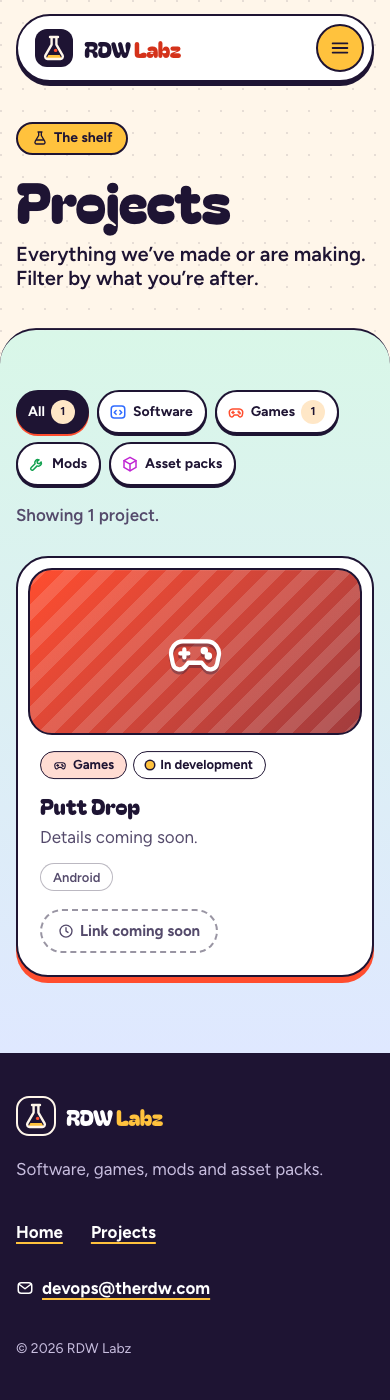
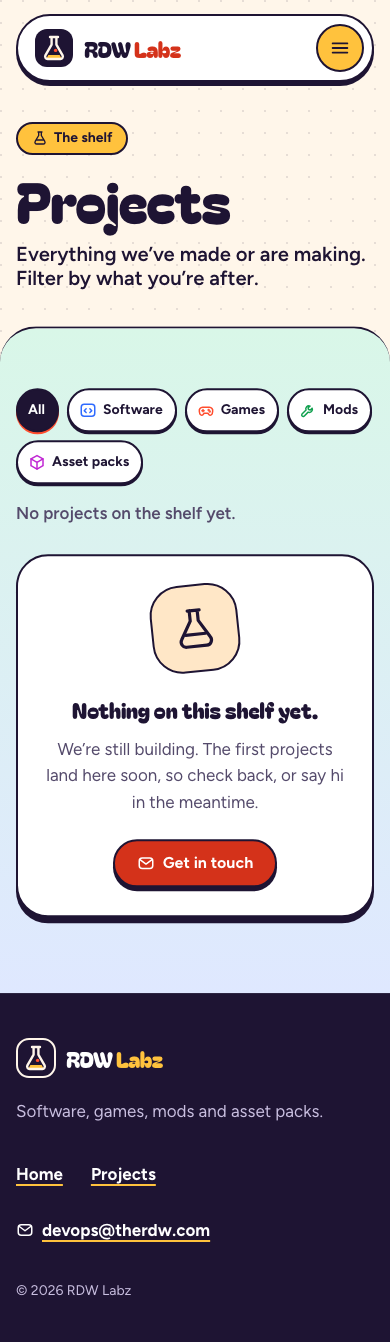
Remove hand-written Putt Drop (now synced from its repo); add empty-shelf state

diff --git a/tests/site.spec.ts b/tests/site.spec.ts
@@ -73,7 +73,9 @@ test('journey: tile → filtered projects (client-side nav)', async ({ page }) =
   await expect(page.locator('[data-project-grid] > li:not([hidden])')).toHaveCount(
     await page.locator('[data-project-grid] > li[data-category="mods"]').count(),
   );
-  await expect(page.locator('[data-filter-status]')).toContainText('in Mods');
+  await expect(page.locator('[data-filter-status]')).toContainText(
+    /in Mods|No projects on the shelf yet/,
+  );
   await expect(page.locator('a[aria-current="page"]').first()).toHaveText(/Projects/);
 });
 
@@ -100,6 +102,10 @@ test('projects: filters by click and keyboard, reflect URL, and reset', async ({
 
 test('projects: empty state when a category has no projects', async ({ page }) => {
   await page.goto('/projects');
+  test.skip(
+    (await page.locator('[data-project-grid] > li').count()) === 0,
+    'shelf is empty; covered by the empty-shelf test',
+  );
   // Simulate a category with zero projects by removing its cards, then filtering.
   await page.evaluate(() =>
     document
@@ -127,7 +133,20 @@ test('placeholder entries are never shown or counted', async ({ page }) => {
     await expect(count).not.toHaveText('0');
   }
   const cards = await page.locator('[data-project-grid] > li').count();
-  await expect(page.locator('[data-filter="all"] .chip-filter__count')).toHaveText(String(cards));
+  const allCount = page.locator('[data-filter="all"] .chip-filter__count');
+  if (cards === 0) await expect(allCount).toHaveCount(0);
+  else await expect(allCount).toHaveText(String(cards));
+});
+
+test('projects: an empty shelf says so and never links back to itself', async ({ page }) => {
+  await page.goto('/projects');
+  test.skip((await page.locator('[data-project-grid] > li').count()) > 0, 'shelf has projects');
+  await expect(page.locator('[data-filter-status]')).toHaveText('No projects on the shelf yet.');
+  await expect(page.locator('[data-empty]')).toBeVisible();
+  await expect(page.locator('[data-filter-reset]')).toHaveCount(0);
+  await expect(page.locator('[data-empty] a[href^="mailto:"]')).toHaveCount(1);
+  await page.locator('[data-filter="games"]').click();
+  await expect(page.locator('[data-filter-status]')).toHaveText('No projects on the shelf yet.');
 });
 
 test('projects: unknown ?c= falls back to All', async ({ page }) => {
@@ -273,7 +292,8 @@ test.describe('no JavaScript', () => {
   test.use({ javaScriptEnabled: false });
   test('content is readable and filters degrade to links', async ({ page }) => {
     await page.goto('/projects?c=mods');
-    await expect(page.locator('.project-card').first()).toBeVisible();
+    const hasCards = (await page.locator('.project-card').count()) > 0;
+    await expect(page.locator(hasCards ? '.project-card' : '[data-empty]').first()).toBeVisible();
     await expect(page.locator('[data-filter="mods"]')).toHaveAttribute('href', '/projects?c=mods');
     await page.goto('/');
     await expect(page.locator('#what-we-build .tile').first()).toBeVisible();
@@ -343,7 +363,11 @@ test.describe('round 2 motion', () => {
   test('lab activity lists build-time updates linking to the shelf', async ({ page }) => {
     await page.goto('/');
     const items = page.locator('.activity li');
-    expect(await items.count()).toBeGreaterThan(0);
+    // Built from real projects only: no projects, no strip.
+    if ((await items.count()) === 0) {
+      await expect(page.locator('.activity')).toHaveCount(0);
+      return;
+    }
     expect(await items.count()).toBeLessThanOrEqual(3);
     await expect(items.first().locator('a')).toHaveAttribute('href', /^\/projects\?c=/);
     await expect(items.first().locator('time')).toHaveAttribute('datetime', /^\d{4}-\d{2}-\d{2}$/);

diff --git a/src/lib/projects.ts b/src/lib/projects.ts
@@ -47,7 +47,9 @@ export const isTodo = (value: string | null | undefined): boolean =>
 
 function validate(raw: typeof data): { projects: Project[]; categories: Category[] } {
   const slugs = new Set<string>();
-  const projects = raw.projects.map((p) => {
+  // Typed loosely: an empty `projects` array in the JSON would otherwise infer as never[].
+  const list = raw.projects as unknown as Record<keyof Project, string>[];
+  const projects = list.map((p) => {
     if (!CATEGORY_IDS.includes(p.category as CategoryId)) {
       throw new Error(`projects.json: "${p.slug}" has unknown category "${p.category}"`);
     }
@@ -57,12 +59,12 @@ function validate(raw: typeof data): { projects: Project[]; categories: Category
     if (slugs.has(p.slug)) throw new Error(`projects.json: duplicate slug "${p.slug}"`);
     slugs.add(p.slug);
     for (const key of ['addedAt', 'releasedAt'] as const) {
-      const v = (p as Partial<Project>)[key];
+      const v = p[key] as string | undefined;
       if (v !== undefined && !DATE.test(v)) {
         throw new Error(`projects.json: "${p.slug}" ${key} must be YYYY-MM-DD, got "${v}"`);
       }
     }
-    return p as Project;
+    return p as unknown as Project;
   });
   return { projects, categories: raw.categories as Category[] };
 }

diff --git a/src/scripts/filters.ts b/src/scripts/filters.ts
@@ -35,8 +35,9 @@ export function initFilters() {
       emptyLabel.textContent = id === 'all' ? 'projects' : chipLabel(id).toLowerCase();
     if (status && announce) {
       const noun = `project${shown === 1 ? '' : 's'}`;
-      status.textContent =
-        id === 'all'
+      status.textContent = !items().length
+        ? 'No projects on the shelf yet.'
+        : id === 'all'
           ? `Showing ${shown === 1 ? '' : 'all '}${shown} ${noun}.`
           : `Showing ${shown} ${noun} in ${chipLabel(id)}.`;
     }

diff --git a/docs/PROGRESS.md b/docs/PROGRESS.md
@@ -17,6 +17,7 @@
 | 2026-10-12 | Round 2: project tracker  | Done   | `scripts/sync-projects.mjs` (opt-in via `rdwlabz.json`, validation, private-repo guard, merge, auto-`released`), `.github/workflows/sync-projects.yml` (daily + manual, PR only), templates, README how-to. Not run on GitHub yet: needs the `RDWLABZ_SYNC_TOKEN` secret. PR step later switched to `RDWLABZ_PR_TOKEN` (the enterprise blocks `GITHUB_TOKEN` from creating PRs); `GITHUB_TOKEN` is now read-only. |
 | 2026-10-12 | Round 2: checks           | Done   | Lint clean; build 0 errors; e2e 36/36 + sync 7/7 + screenshots 9/9; budgets OK (JS ≤ 7.3 KB gz); motion-check CLS 0, no leaks; Lighthouse medians 100s (404 SEO 63 by design). See `docs/REVIEWS.md` Round 2. Not pushed or deployed. |
 | 2026-10-12 | Contact email             | Done   | `site.contactEmail` = `devops@therdw.com`; all contact spots are real mailto links (header pill, mobile menu, hero, new Work with us button, CTA band, footer, new 404 button). e2e 40/40 + sync 7/7 + screenshots 9/9. |
+| 2026-10-12 | Putt Drop moves to sync   | Done   | Opened [RDW-Labz/putt-drop#1](https://github.com/RDW-Labz/putt-drop/pull/1) adding `rdwlabz.json` (not merged). Removed the hand-written entry; the shelf is empty until the first sync PR merges. Added a proper empty-shelf state (no "0" badges, no self-link) and made tests data-agnostic. e2e 56 pass, 1 skipped (the shelf-has-projects variant). |
 
 ## Baseline (step 1, run 2026-10-12)
 

diff --git a/docs/PREFLIGHT.md b/docs/PREFLIGHT.md
@@ -44,10 +44,10 @@ Status key: PASS · FAIL · BLOCKED · NOT RUN · N/A (with reason)
 ## Content still TODO (in `src/data/projects.json`)
 
 - `site.tagline`: blank in the update message. The UI uses the fallback "We build software, games, mods and asset packs."
-- Putt Drop: `url` (blank in the update), `oneLiner`, `accentColor` (it uses the Games color for now) and `image`.
+- Putt Drop (now in its repo's `rdwlabz.json`): `url`, `oneLiner`, `accentColor` and `image`.
 - Project 2: blank in the update, so nothing was added.
 - `site.launchDate`, `site.workWithUs` (optional) and the 4 category blurbs.
 - `public/og.png` text, if the tagline changes (`scripts/make-icons.mjs`). The OG image still uses the Round 1 heading font (Bricolage); regenerating it in Bagel Fat One is optional.
-- Add `templates/putt-drop.rdwlabz.json` to the Putt Drop repo as `rdwlabz.json`, then delete the hand-written Putt Drop entry so the repo manages it.
+- Putt Drop now comes from its repo: merge [RDW-Labz/putt-drop#1](https://github.com/RDW-Labz/putt-drop/pull/1), set the sync secrets, run **Sync projects**, then merge the sync PR. Until then the shelf is empty (Projects shows a "still building" state; Home hides the Lab activity strip).
 
 DNS: done (Cloudflare).
